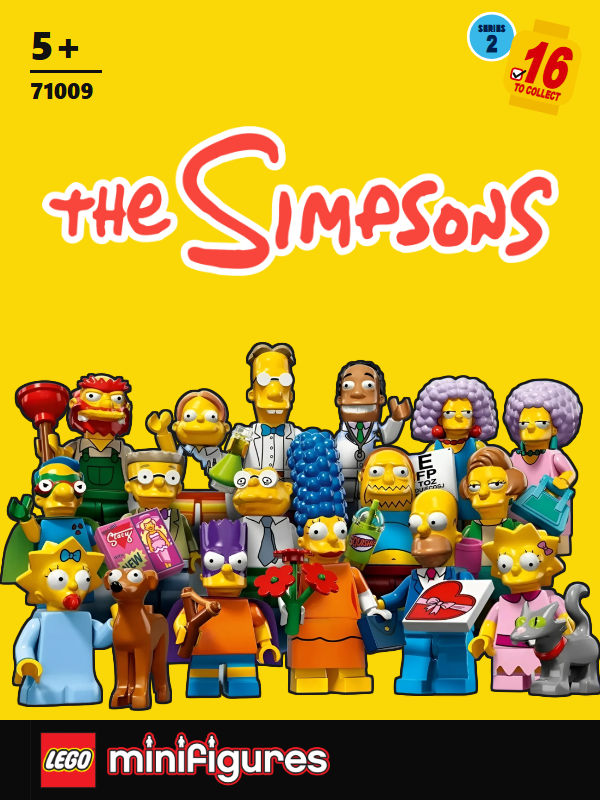
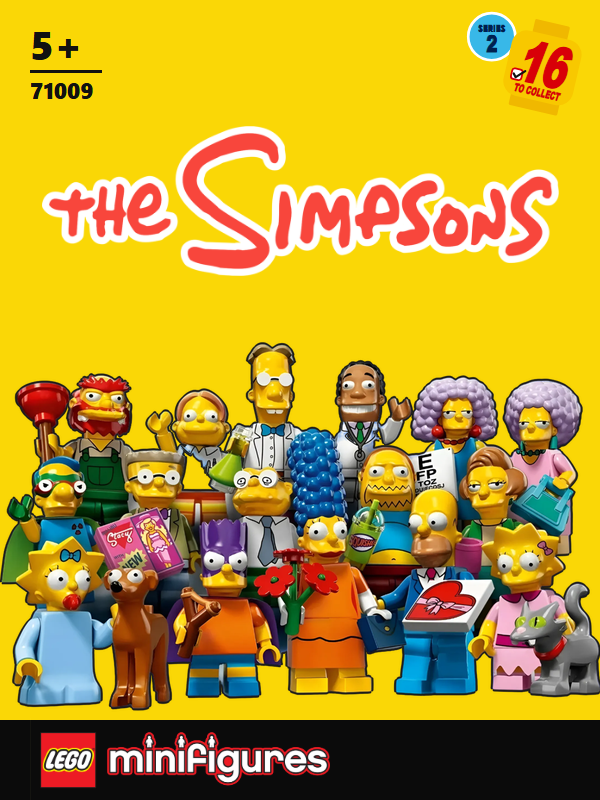
fix(V2-11): outline baked in PIL, left off crop edges (71018/71027 side stripes)

diff --git a/scripts/build_cards.py b/scripts/build_cards.py
@@ -155,9 +155,10 @@ def badge(number, count):
 
 def group_fit(sid, count):
     """Scale the crowd to FIG_TARGET and crop its sides to the card width at the emptiest columns.
-    Returns (image, drawn width, drawn height)."""
+    Returns (image, drawn width, drawn height, sides cut)."""
     im = Image.open(GROUP / f"{sid}.png").convert("RGBA")
     w, h = im.size
+    cut = False
     area = int((np.asarray(im)[:, :, 3] > 127).sum())
     scale = min(FIG_TARGET * FIG_ADJ.get(sid, 1) / math.sqrt(area / count), GROUP_H / h)
     if sid in NO_ZOOM:
@@ -171,7 +172,28 @@ def group_fit(sid, count):
         im = im.crop(im.split()[-1].getbbox())
         w, h = im.size
         scale = min(scale, 600 / w)                         # the gap snap can widen the cut a little
-    return im, round(w * scale), round(h * scale)
+        cut = True
+    return im, round(w * scale), round(h * scale), cut
+
+
+def outline(crowd, colour, cut):
+    """Crowd at drawn size with an OUTLINE_PX ring, padded by OUTLINE_PX on every side.
+    Same four axial shifts as the old CSS drop-shadow, but baked in, so the ring can be left off the left and right
+    padding when the sides were cropped: there the crop edge is a straight cut through figures, and a ring along it
+    showed as a white vertical stripe (owner round 2, 2026-11-14: 71018 and 71027 "left/right side stripes")."""
+    o = OUTLINE_PX
+    a = np.pad(np.asarray(crowd)[:, :, 3], o)
+    ring = a.copy()
+    for dx, dy in ((o, 0), (-o, 0), (0, o), (0, -o)):
+        ring = np.maximum(ring, np.roll(a, (dy, dx), axis=(0, 1)))
+    if cut:
+        ring[:, :o] = 0
+        ring[:, -o:] = 0
+    rgb = tuple(int(colour[i:i + 2], 16) for i in (1, 3, 5))
+    out = Image.new("RGBA", (ring.shape[1], ring.shape[0]), rgb + (0,))
+    out.putalpha(Image.fromarray(ring))
+    out.alpha_composite(crowd, (o, o))
+    return out
 
 
 def logo_size(path):
@@ -202,9 +224,10 @@ def page(s):
     logo = LOGOS / (LOGO[sid] if sid in LOGO else "lego-minifigures-lockup.png")
     lw, lh = logo_size(logo)
     size = f"width:{lw}px;height:{lh}px"
-    crowd, gw, gh = group_fit(sid, s["figureCount"])
-    oc, o = ("#1a1a1a" if lum > OUTLINE_LIGHT else "#fff"), OUTLINE_PX
-    outline = " ".join(f"drop-shadow({x}px {y}px 0 {oc})" for x, y in ((o, 0), (-o, 0), (0, o), (0, -o)))
+    crowd, gw, gh, cut = group_fit(sid, s["figureCount"])
+    oc, o = ("#1a1a1a" if lum > OUTLINE_LIGHT else "#ffffff"), OUTLINE_PX
+    crowd = outline(crowd.resize((gw, gh), Image.LANCZOS), oc, cut)
+    gx, gy = (600 - gw) // 2 + GROUP_DX.get(sid, 0) - o, GROUP_TOP + GROUP_H - gh - o
     crowd_png = TMP / f"{sid}-group.png"
     crowd.save(crowd_png)
     if sid in LOGO:
@@ -226,7 +249,7 @@ body{{font-family:"Segoe UI",Arial,sans-serif}}
 .badge{{position:absolute;right:14px;top:10px}}
 .badge text{{font-family:'Arial Black',Arial,sans-serif;font-weight:900}}
 .theme{{position:absolute;left:0;right:0;top:{LOGO_TOP}px;text-align:center;line-height:0;z-index:2}}
-.group{{position:absolute;filter:{outline};left:{(600 - gw) // 2 + GROUP_DX.get(sid, 0)}px;top:{GROUP_TOP + GROUP_H - gh}px;width:{gw}px;height:{gh}px}}
+.group{{position:absolute;left:{gx}px;top:{gy}px;width:{gw + 2 * o}px;height:{gh + 2 * o}px}}
 .band{{position:absolute;left:0;right:0;bottom:0;height:80px;background:#0b0b0b;display:flex;align-items:center;padding:0 30px}}
 .lockup{{width:300px}} .word{{color:#fff;font-family:"Arial Black",Arial,sans-serif;font-size:20px;letter-spacing:.1em}}
 </style><div class="card">
